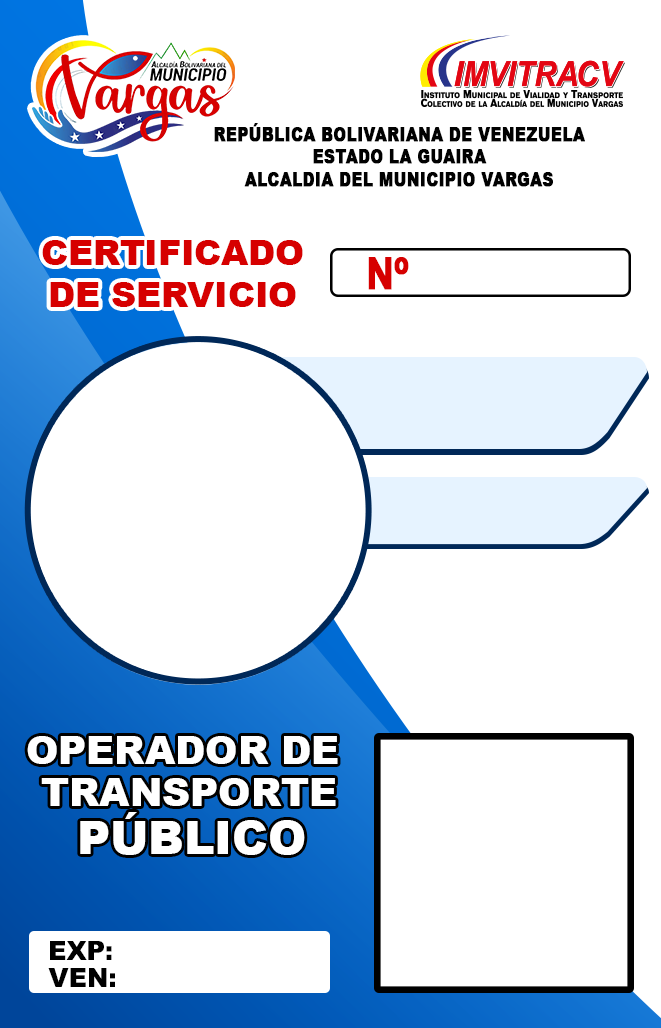
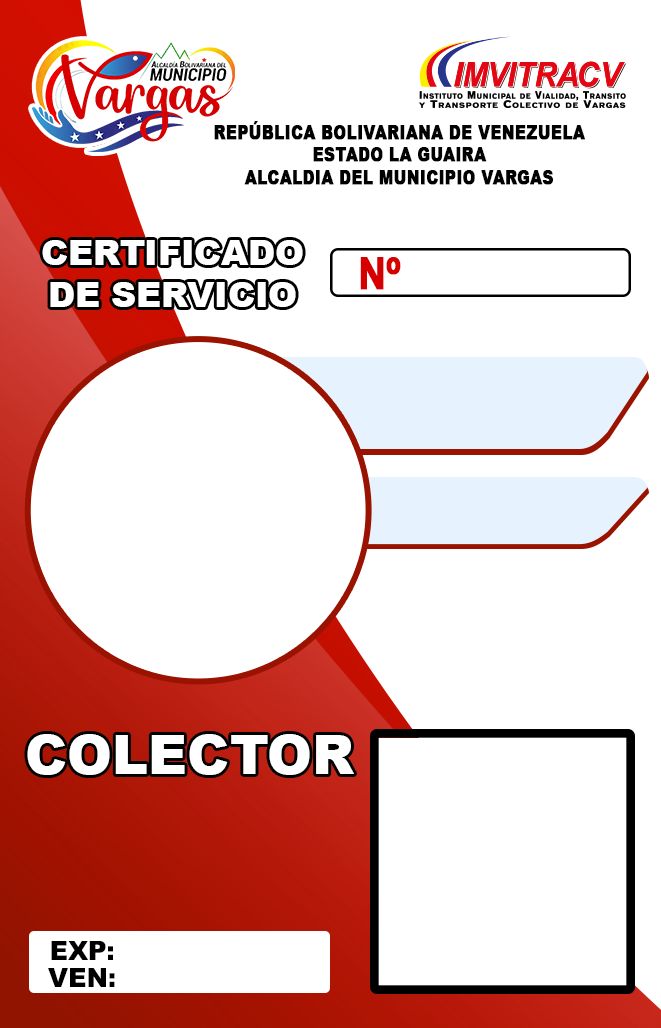
add taxista workerType for worker

diff --git a/src/app/workers/form/form.component.html b/src/app/workers/form/form.component.html
@@ -116,7 +116,6 @@
           </div>
         </div>
 
-
         <div class="row">
           <div class="col-xl-6 col-lg-6 col-md-12 col-sm-12 mb-2">
             <mat-form-field
@@ -137,7 +136,7 @@
               <mat-error
                 *ngIf="workerForm.get('dateInit').hasError('required')"
               >
-                Pro favor selecciona una fecha
+                Por favor selecciona una fecha
               </mat-error>
             </mat-form-field>
           </div>
@@ -157,9 +156,7 @@
                 [for]="picker2"
               ></mat-datepicker-toggle>
               <mat-datepicker #picker2></mat-datepicker>
-              <mat-error
-                *ngIf="workerForm.get('dateEnd').hasError('required')"
-              >
+              <mat-error *ngIf="workerForm.get('dateEnd').hasError('required')">
                 Por favor selecciona una fecha
               </mat-error>
             </mat-form-field>
@@ -178,6 +175,10 @@
                 placeholder="Tipo de Miembro"
                 select
               >
+                <mat-option value="0">
+                  <mat-label> Taxista </mat-label>
+                </mat-option>
+
                 <mat-option value="1">
                   <mat-label> Colector </mat-label>
                 </mat-option>
@@ -336,11 +337,7 @@
               appearance="outline"
             >
               <mat-label>Estatus</mat-label>
-              <mat-select
-                formControlName="status"
-                placeholder="Estatus"
-                select
-              >
+              <mat-select formControlName="status" placeholder="Estatus" select>
                 <mat-option value="0">
                   <mat-label> Inactivo </mat-label>
                 </mat-option>
@@ -422,7 +419,7 @@
           <div class="col-xl-12 col-lg-12 col-md-12 col-sm-12 mb-2">
             <div class="example-button-row">
               <button
-              mat-raised-button
+                mat-raised-button
                 [disabled]="!workerForm.valid"
                 color="primary"
                 [type]="submit"

diff --git a/src/app/profile/profile.component.sass b/src/app/profile/profile.component.sass
@@ -1,49 +1,83 @@
 .littleMoreDown
   margin-top: 64px
 
-
-#carnet
+#card
+  min-height: 570px
+  max-height: 570px
+  min-width: 350px
+  max-width: 350px
+.worker0
+  min-height: 570px
+  max-height: 570px
+  min-width: 350px
+  max-width: 350px
+  background: url("/assets/images/cert_0.jpg") no-repeat right top
+  background-size: 350px 570px
+  border-radius: 10px
+.worker1
   min-height: 570px
   max-height: 570px
   min-width: 350px
   max-width: 350px
   background: url("/assets/images/cert_1.png") no-repeat right top
   background-size: 350px 570px
+  border-radius: 10px
+.worker2
+  min-height: 570px
+  max-height: 570px
+  min-width: 350px
+  max-width: 350px
+  background: url("/assets/images/cert_2.png") no-repeat right top
+  background-size: 350px 570px
+  border-radius: 10px
 
 #code
-  margin-top:136px
-  margin-left:225px
+  margin-top:134px
+  margin-left:221px
   color: #d60303
   font-weight: bold
-  font-size: 20px
+  font-size: 23px
+  font-family: Arial
+
 #photo
   height: 170px
   width: 170px
 #profile
   object-fit: cover
   margin-left:20px
-  margin-top:15px
+  margin-top:11px
   border-radius: 50%
   height: 180px
   width: 170px
 
 #name
-  margin-top:10px
+  margin-top:23px
   font-weight: bold
+  font-family: Arial
+  font-size: 18px
+  line-height:1.2
+  margin-left: inherit
 #DNI
-  margin-top:10px
+  margin-top:2px
+  font-weight: bold
+   font-family: Arial
 
 
 #qrcode
-  margin-top:39px
-  margin-left:-10px
-  height:128px
-  width:125px
+  margin-top:41px
+  margin-left:-13px
+  height:129px
+  width:129px
   object-fit: cover
 
 #dates
-  margin-top: 140px
+  margin-top: 145px
   margin-left: 66px
+  font-family: Arial
+  font-weight: bold
+  font-size: 16px
+  line-height: 1
+
 
 
 

diff --git a/src/app/profile/profile.component.ts b/src/app/profile/profile.component.ts
@@ -40,7 +40,7 @@ export class ProfileComponent extends UnsubscribeOnDestroyAdapter implements OnI
   defaultFlag: string;
   isOpenSidebar: boolean;
   status=['inactivo','Activo'];
-  workerType=['','Colector','Chofer'];
+  workerType=['Taxista','Colector','Chofer'];
   type=['','Avance','Socio','Presidente de linea','Encargado Politico'];
   licence=['', '1ra','2da','3ra','4ta','5ta','6ta']
   constructor(
@@ -58,29 +58,16 @@ export class ProfileComponent extends UnsubscribeOnDestroyAdapter implements OnI
     ) {
     super()
   }
-
-
-
   ngOnInit(): void {
-    localStorage.setItem('isRtl', 'false');
     this.subs.sink = this.activatedRoute.params.subscribe(params => {
       this.id= +params['id'];
       this.QRLink=`chl=https://imvitracv-6aa26.firebaseapp.com/profile/${this.id}&amp;choe=UTF-8`
-
-
-
       this.workerService.profile(this.id);
-      console.log(this.id);
-
     })
     this.profileData= this.workerService.profileData$.subscribe((data)=>{
       this.workerData= data
-
-      this.workerData.dateInit =formatDate(this.workerData.dateInit, 'dd-MM-yyyy', 'en');
-      this.workerData.dateEnd  =formatDate(this.workerData.dateEnd, 'dd-MM-yyyy', 'en'),
-      console.log('profile', this.workerData);
-
-
+      this.workerData.dateInit =formatDate(this.workerData.dateInit, 'dd/MM/yyyy', 'en');
+      this.workerData.dateEnd  =formatDate(this.workerData.dateEnd, 'dd/MM/yyyy', 'en');
     })
   }
 

diff --git a/src/app/core/service/worker.service.ts b/src/app/core/service/worker.service.ts
@@ -12,11 +12,11 @@ import { Worker } from '../models/worker';
 })
 export class WorkerService extends UnsubscribeOnDestroyAdapter {
 
-  private readonly API_URL2 = 'https://imvitracv.herokuapp.com/worker';
-  private readonly API_URL_2 = 'https://imvitracv.herokuapp.com';
+  private readonly API_URL = 'https://imvitracv.herokuapp.com/worker';
+  private readonly API_URL_ = 'https://imvitracv.herokuapp.com';
 
-  private readonly API_URL = 'http://localhost:3001/worker';
-  private readonly API_URL_ = 'http://localhost:3001';
+  private readonly API_URL2 = 'http://localhost:3001/worker';
+  private readonly API_URL_2 = 'http://localhost:3001';
 
 
   dataChange: BehaviorSubject<Worker[]> = new BehaviorSubject<Worker[]>([]);
@@ -49,8 +49,6 @@ export class WorkerService extends UnsubscribeOnDestroyAdapter {
     this.subs.sink = this.httpClient.get<any>(this.API_URL + `/list/${page}/${size}`).subscribe(
       (data) => {
         this.isTblLoading = false;
-        console.log('data', data.workers);
-
         this.dataLength.next(data.dataLength);
         this.dataChange.next(data.workers);
       },

diff --git a/src/app/workers/workers-table/workers-table.component.ts b/src/app/workers/workers-table/workers-table.component.ts
@@ -41,7 +41,7 @@ export class WorkersTableComponent extends UnsubscribeOnDestroyAdapter implement
     'actions'
   ];
   status=['inactivo','Activo'];
-  workerType=['','Colector','Chofer'];
+  workerType=['Taxista','Colector','Chofer'];
   WorkerDatabase: WorkerService | null;
   dataSource: WorkerDataSource | null;
   selection = new SelectionModel<Worker>(true, []);
@@ -70,8 +70,6 @@ export class WorkersTableComponent extends UnsubscribeOnDestroyAdapter implement
   ngOnInit(): void {
     this.loadData();
     this.WorkerDatabase.Length$.subscribe((data:any) => {
-      console.log('datalength',data.dataLength);
-
       this.dataLength= data.dataLength
     })
   }
@@ -79,8 +77,6 @@ export class WorkersTableComponent extends UnsubscribeOnDestroyAdapter implement
   ngAfterViewInit() {
     merge(this.paginator.page, this.sort.sortChange).pipe().subscribe(() => {
       this.loadData();
-        console.log('SHORT CHANGE2', this.paginator.pageIndex);
-
     })
 
 

diff --git a/src/app/profile/profile.component.html b/src/app/profile/profile.component.html
@@ -59,7 +59,8 @@
             </div>
           </div>
         </div>
-        <div class="card" id="carnet">
+        <div  class="card" id="card">
+        <div  [ngClass]="'worker'+workerData.workerType">
           <div class="row">
           <div class="col-12">
             <p id="code">
@@ -78,10 +79,8 @@
           </div>
 
           <div class="col-5" id="name">
-            <br>
-            {{ workerData.firstName}}
-            <br>
-            {{workerData.firstLastname}}
+            {{ workerData.firstName.toUpperCase()}} <br>
+            {{workerData.firstLastname.toUpperCase()}}
               <br>
               <br>
 
@@ -113,6 +112,7 @@
             </div>
           </ng-template>
         </div>
+      </div>
         <div class="card"></div>
       </div>
       <div class="col-lg-8 col-md-12">

diff --git a/src/app/layout/header/header.component.html b/src/app/layout/header/header.component.html
@@ -61,7 +61,8 @@
         <!-- #END# Notifications-->
         <li class="nav-item user_profile" ngbDropdown>
           <a href="#" onClick="return false;" ngbDropdownToggle role="button" class="nav-notification-icons pt-0">
-            <img src="assets/images/user.jpg" class="rounded-circle" width="32" height="32" alt="User">
+            <img src="assets/images/usrbig.jpg" class="rounded-circle" width="32" height="32" alt="User">
+
           </a>
           <div ngbDropdownMenu class="notification-dropdown pullDown">
             <div class="noti-list" style="position: relative; max-width: 600px; max-height: 300px;" [perfectScrollbar]>

diff --git a/src/app/workers/form/form.component.ts b/src/app/workers/form/form.component.ts
@@ -52,7 +52,7 @@ export class FormComponent implements OnInit {
 
     if (this.action === 'edit') {
       this.isDetails = false;
-      this.dialogTitle = `Ficha de ${data.worker.firstName} ${data.worker.firstLastName}`;
+      this.dialogTitle = `Ficha de ${data.worker.firstName} ${data.worker.firstLastname}`;
       this.worker = data.worker;
       this.license= this.worker.license.toString()
       this.status = this.worker.status.toString()

diff --git a/src/app/workers/delete/delete.component.html b/src/app/workers/delete/delete.component.html
@@ -3,7 +3,7 @@
   <div mat-dialog-content>
     <ul class="clearfix">
       <li>
-        <p><span class="font-weight-bold"> </span>{{data.firstName}}{{data.firstLastname}}</p>
+        <p><span class="font-weight-bold"> </span>{{data.firstName}} {{data.firstLastname}}</p>
       </li>
 
     </ul>
